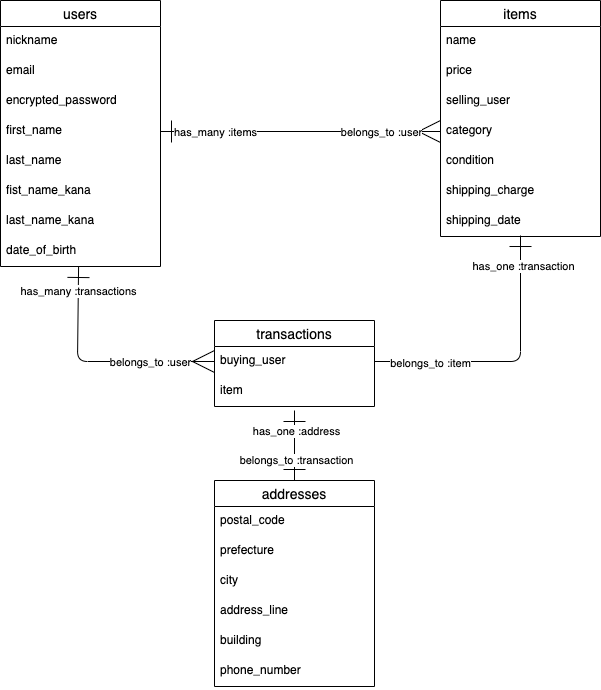
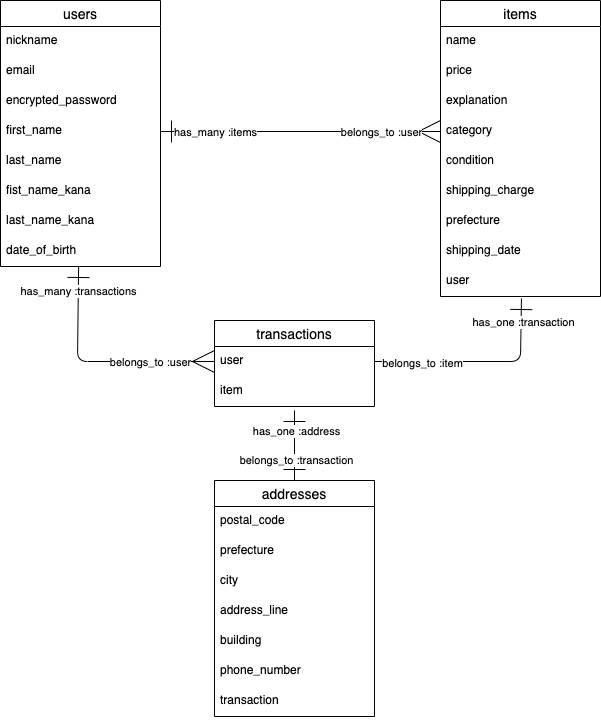
ER図, READMEの修正
・itemsテーブルにexplanation,prefectureカラムを追加
・itemsテーブルのカラム名をselling_userからuserへ修正
・transactionsテーブルのカラム名をbuying_userからuserへ修正
・addressテーブルにtransactionカラムを追加
・README内、ActiveHashを使用するカラムのデータ型をintegerへ変更
・README内、addressesテーブルのbuildingのnot null制約を削除

diff --git a/README.md b/README.md
@@ -22,11 +22,13 @@ has_many :transactions
 | --------------- | ---------- | ------------------------------ |
 | name            | string     | null: false                    |
 | price           | integer    | null: false                    |
-| selling_user    | reference  | null: false, foreign_key: true |
-| category        | string     | null: false                    |
-| condition       | string     | null: false                    |
-| shipping_charge | string     | null: false                    |
-| shipping_date   | string     | null: false                    |
+| explanation     | text       | null: false                    |
+| category        | integer    | null: false                    |
+| condition       | integer    | null: false                    |
+| shipping_charge | integer    | null: false                    |
+| prefecture      | integer    | null: false                    |
+| shipping_date   | integer    | null: false                    |
+| user            | reference  | null: false, foreign_key: true |
 
 belongs_to :user
 has_one :transaction
@@ -35,7 +37,7 @@ has_one :transaction
 
 | Column          | Type       | Options                        |
 | --------------- | ---------- | ------------------------------ |
-| buying_user     | reference  | null: false, foreign_key: true |
+| user            | reference  | null: false, foreign_key: true |
 | item            | reference  | null: false, foreign_key: true |
 
 belongs_to :item
@@ -47,10 +49,11 @@ has_one :address
 | Column          | Type       | Options                        |
 | --------------- | ---------- | ------------------------------ |
 | postal_code     | string     | null: false                    |
-| prefecture      | string     | null: false                    |
+| prefecture      | integer    | null: false                    |
 | city            | string     | null: false                    |
 | address_line    | string     | null: false                    |
-| building        | string     | null: false                    |
+| building        | string     |                                |
 | phone_number    | string     | null: false                    |
+| transaction     | reference  | null: false, foreign_key: true |
 
 belongs_to :transaction
